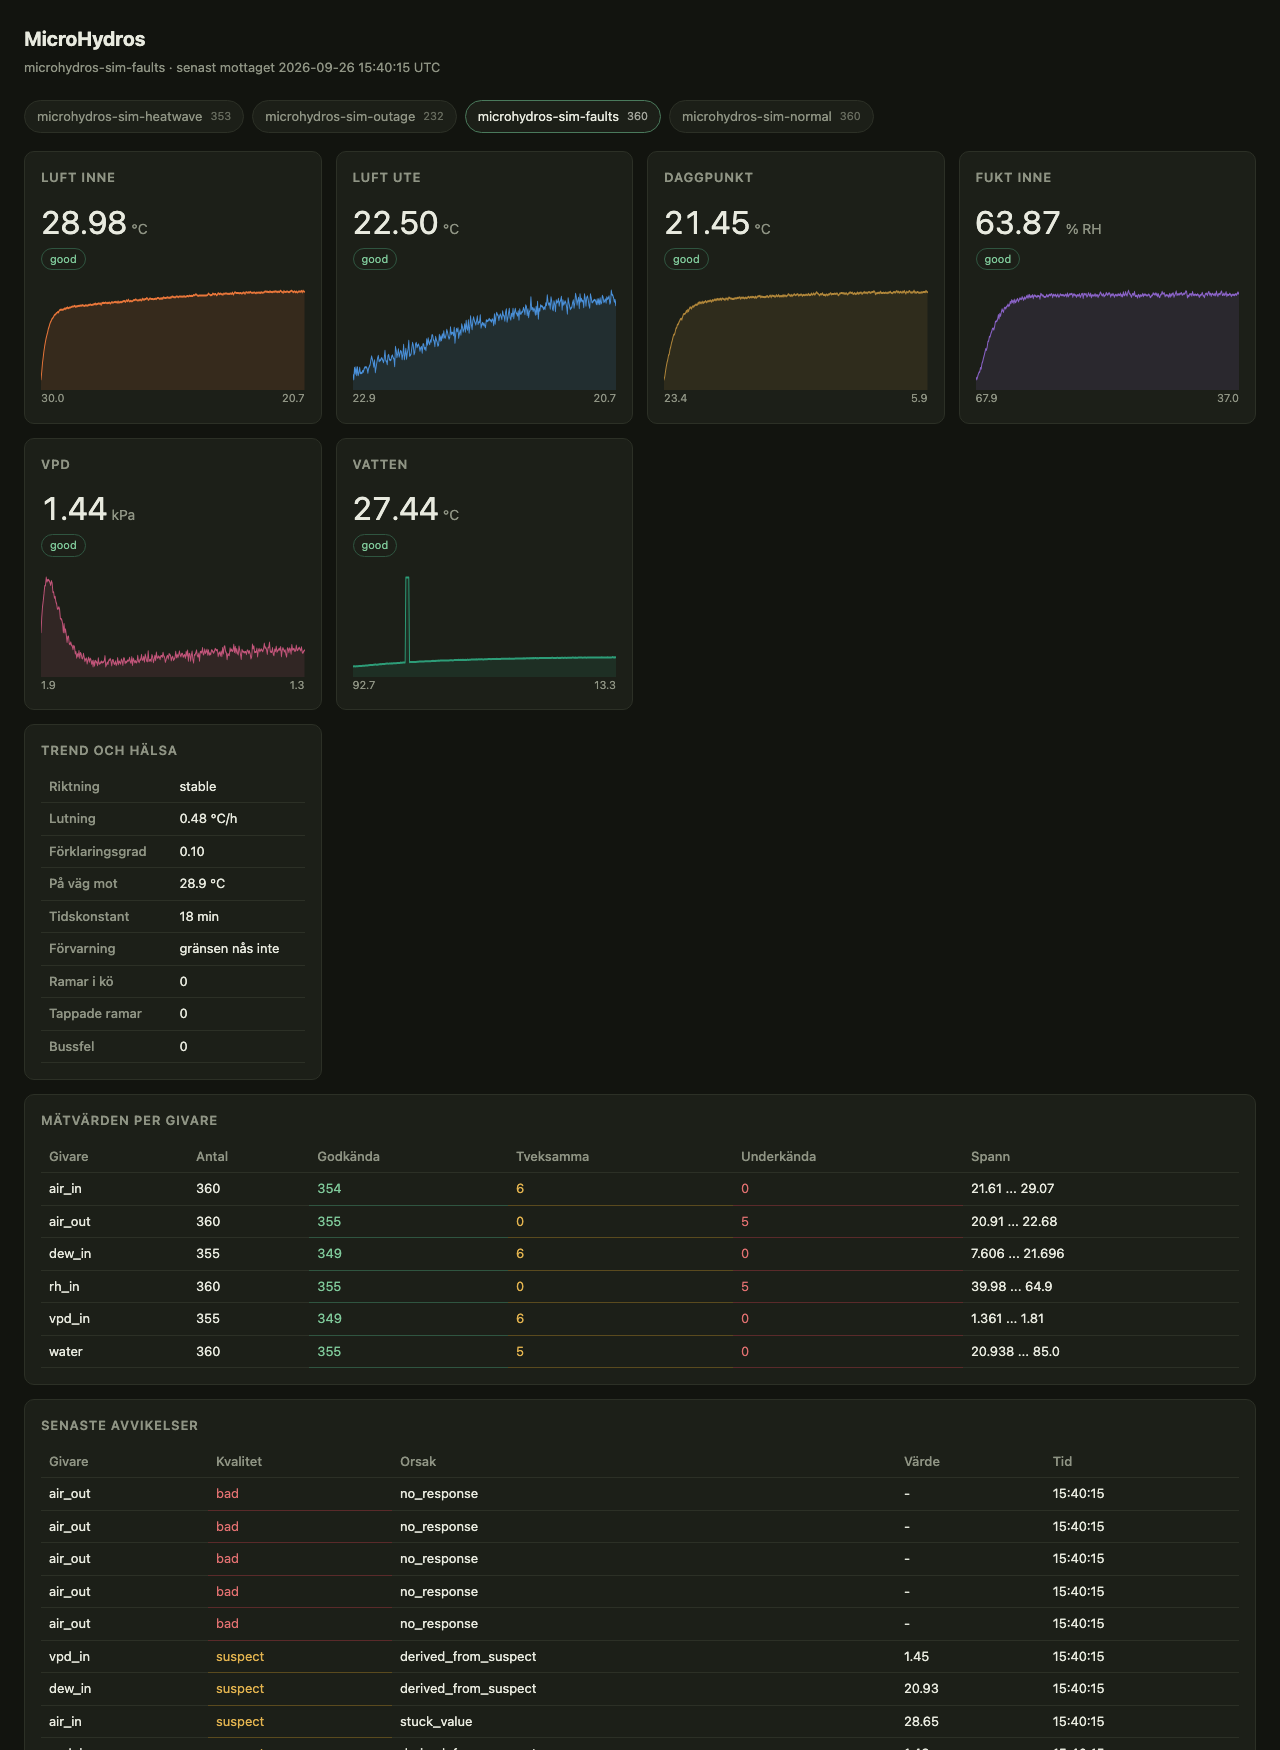
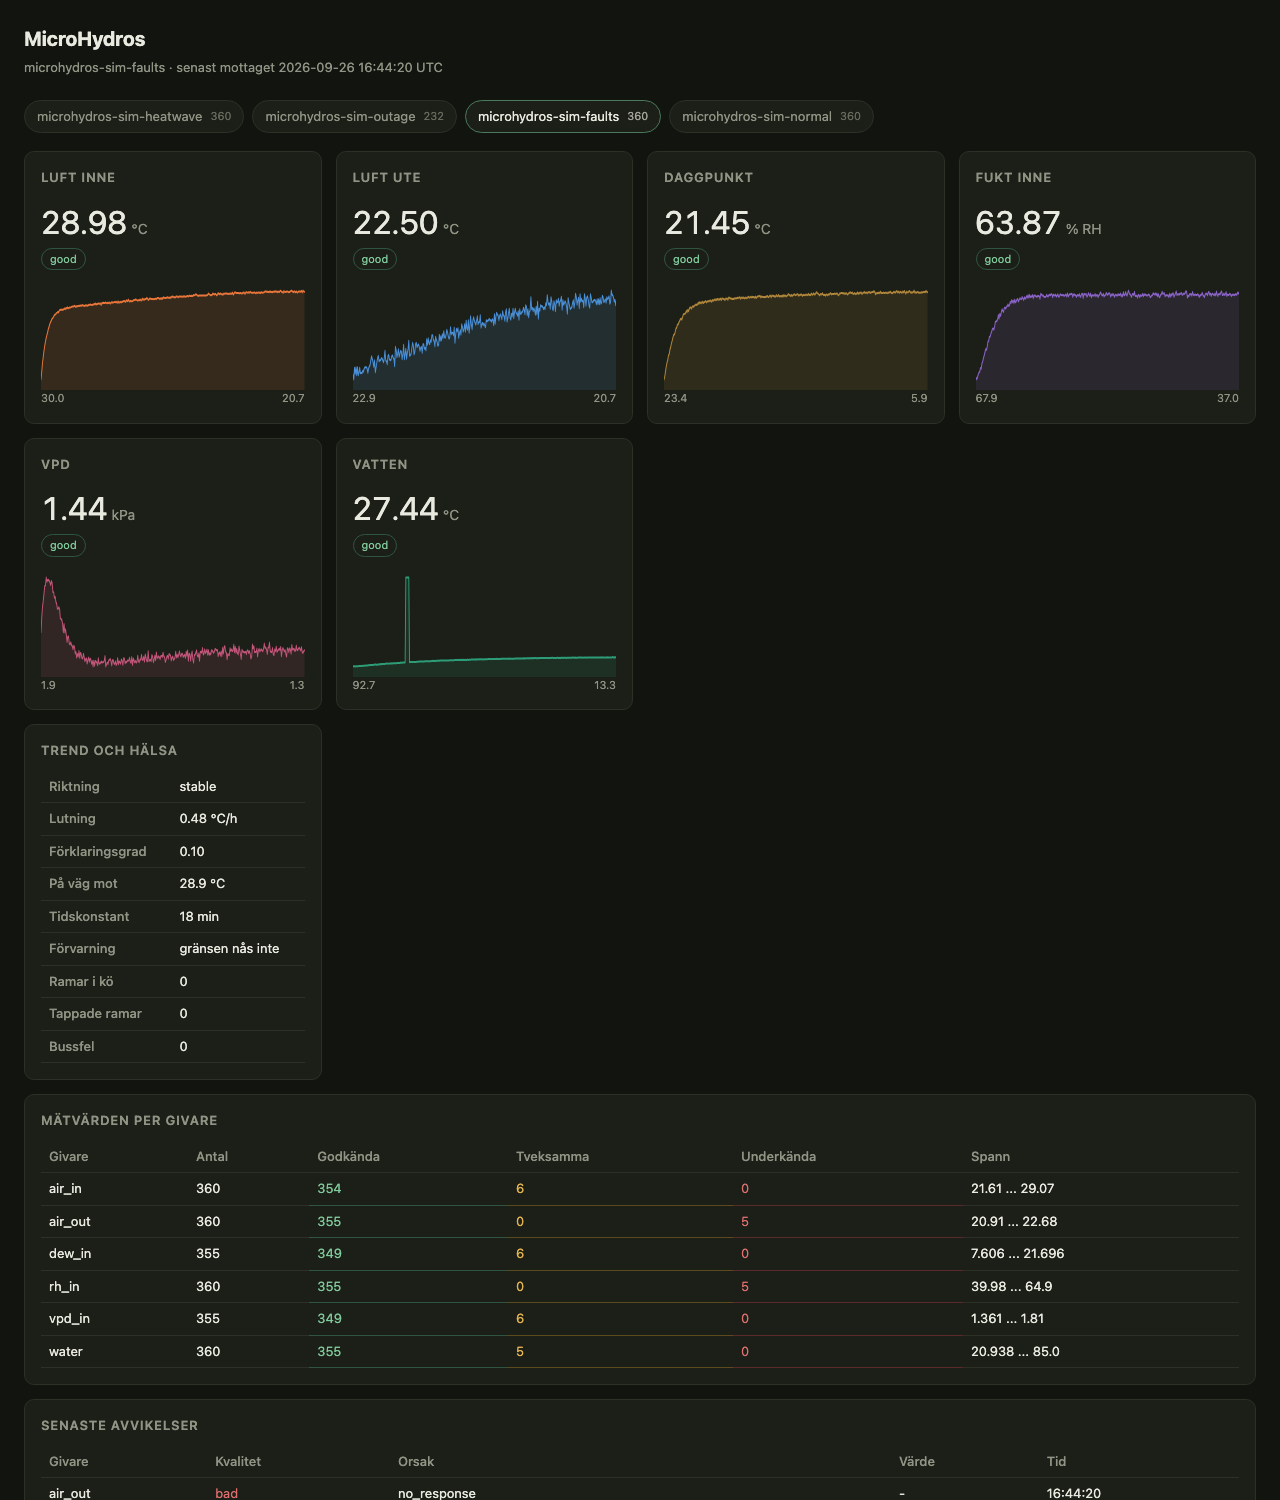
Testrapport, demomanus, reflektion och slutgiltiga bevisfiler
Sista korningen av alla fyra scenarier reproducerar siffrorna i testrapporten
exakt: noll avvikelser i felfri drift, alla fyra injicerade fel upptackta med
ratt orsakskod, 128 tappade ramar synliga som hal i lopnummerserien, och sju
minuters forvarning innan gransen passeras.

diff --git a/gateway/dashboard.py b/gateway/dashboard.py
@@ -226,10 +226,10 @@ def render(db, device=None):
             f'{badge}{chart}</div>')
 
     t = trend(db, device)
-    tr_html = '<p class="muted">ingen ram annu</p>'
+    tr_html = '<p class="muted">ingen ram ännu</p>'
     if t:
         if t["limit_exceeded"]:
-            forecast = '<span class="bad">gransen ar redan passerad</span>'
+            forecast = '<span class="bad">gränsen är redan passerad</span>'
         elif t["minutes_to_limit"] is None:
             forecast = "gränsen nås inte"
         else:

diff --git a/docs/testrapport.md b/docs/testrapport.md
@@ -13,7 +13,7 @@ och går att reproducera med kommandona i [README](../README.md).
 | Resultat | **82 godkända, 0 underkända** |
 | Körtid för hela sviten | **under 6 sekunder** |
 | Scenariokörningar genom hela kedjan | 4, à 6 simulerade timmar |
-| Mätvärden lagrade under scenariokörningarna | 7 820 |
+| Mätvärden lagrade under scenariokörningarna | 7 862 |
 | Fel som hittades och åtgärdades under projektet | 3 |
 
 Testerna körs med:
